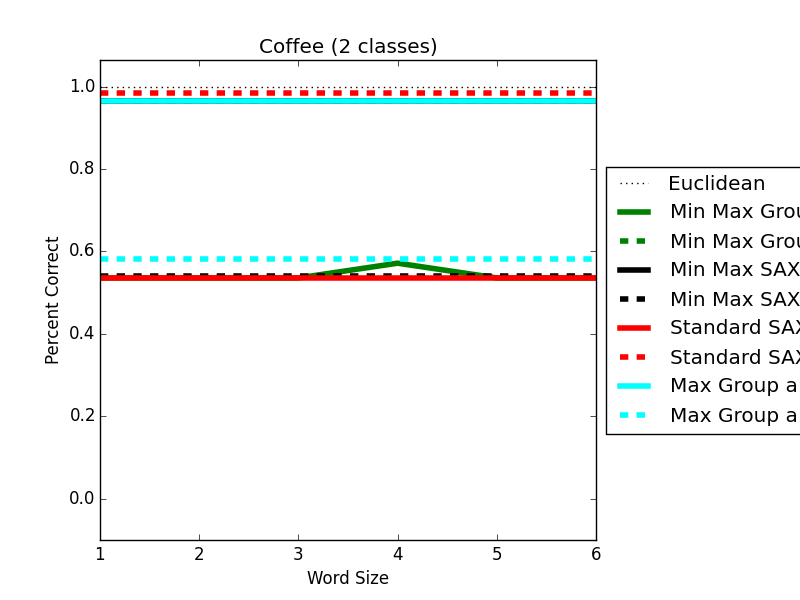
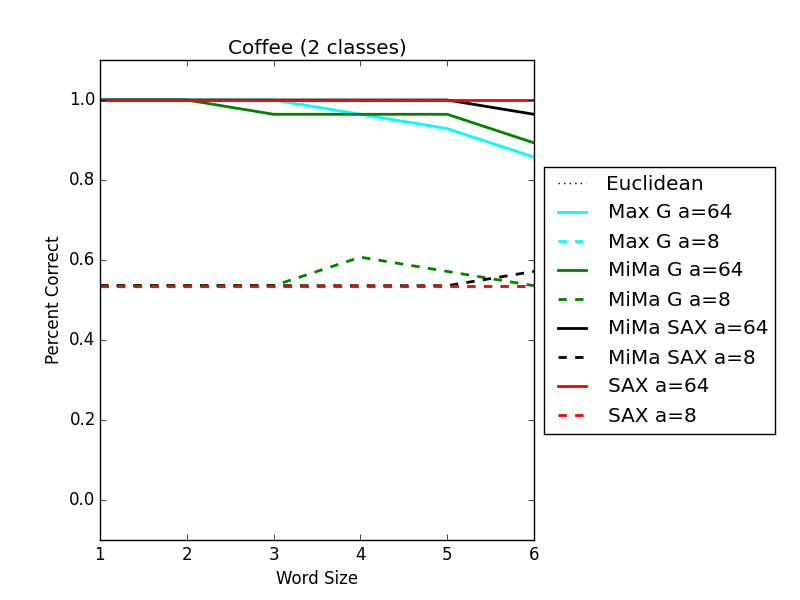
Fixed bugs with 4 at a time run

diff --git a/UCR_Tester.py b/UCR_Tester.py
@@ -191,8 +191,8 @@ class SAX:
 
 
 
-# UCR_DIRECTORY = '/Users/test/fall_2015/research/UCR_TS_Archive_2015/'
-UCR_DIRECTORY = r'C:\Users\Tom\Documents\fall_2015\research\UCR_TS_Archive_2015\\'
+UCR_DIRECTORY = '/Users/test/fall_2015/research/UCR_TS_Archive_2015/'
+# UCR_DIRECTORY = r'C:\Users\Tom\Documents\fall_2015\research\UCR_TS_Archive_2015\\'
 
 def loadUCRData(path):
     file = open(path, 'r')
@@ -259,27 +259,27 @@ def determineCorrect(trainData, trainLabels, testData, testLabels, classifyMetho
 def shiftSax(saxArray, amt):
     return np.right_shift(saxArray, amt)
 
-testFiles = ['ChlorineConcentration']
 testFiles = ['Beef', 'OliveOil', 'Coffee']
 testFiles += ['Earthquakes',]
 testFiles += ['SmallKitchenAppliances', 'LargeKitchenAppliances', 'TwoLeadECG', 'ECGFiveDays']#, 'FordA', 'FordB', 'ElectricDevices', 'ECG5000']
 testFiles += ['ItalyPowerDemand', 'Plane', 'Car']
 testFiles += ['ECG200']
 testFiles += ['Computers', ]
+testFiles += ['ChlorineConcentration']
 
 if len(sys.argv) > 1:
     print("Running on UCR dataset", sys.argv[1])
     testFiles = [sys.argv[1]]
 
 
-def convert_train_data(sax_instance, data, test_type):
+def convert_train_data(sax_instance, dataset, test_type):
     test_dictionary = {
-        "Standard SAX": sax_instance.to_standard_sax,
-        "Max Group": sax_instance.to_group_sax,
-        "Min Max Group": sax_instance.to_min_max_group_sax,
-        "Min Max SAX": sax_instance.to_min_max_sax,
+        "SAX": sax_instance.to_standard_sax,
+        "Max G": sax_instance.to_group_sax,
+        "MiMa G": sax_instance.to_min_max_group_sax,
+        "MiMa SAX": sax_instance.to_min_max_sax,
     }
-    return [test_dictionary[test_type](data) for data in trainingData]
+    return [test_dictionary[test_type](dat_piece) for dat_piece in dataset]
 
 for testDataSet in testFiles:
     trainingData, trainingLabels = loadUCRData(UCR_DIRECTORY + testDataSet + "/" + testDataSet + "_TRAIN")
@@ -292,10 +292,10 @@ for testDataSet in testFiles:
     euclideanCorrect = determineCorrect(*data, classifyMethod="Euclidean")
 
     tests = {
-        "Standard SAX": ("red", {}),
-        "Max Group": ('cyan', {}),
-        "Min Max Group": ('green', {}),
-        "Min Max SAX": ('black', {})
+        "SAX": ("red", {}),
+        "Max G": ('cyan', {}),
+        "MiMa G": ('green', {}),
+        "MiMa SAX": ('black', {})
     }
 
     wordSizes = [1, 2, 3, 4, 5, 6]
@@ -331,10 +331,11 @@ for testDataSet in testFiles:
     max_value = 0
     min_value = 0
     for k, test in enumerate(tests.keys()):
-        for i, key in enumerate(tests[test][1].keys()):
+        for i, key in enumerate(sorted(tests[test][1].keys())):
+            # print(i, test,key)
             max_value = max(max_value, max(tests[test][1][key]))
             min_value = min(min_value, max(tests[test][1][key]))
-            ax.plot(wordSizes, tests[test][1][key] + .005 * i * (k**2), color=tests[test][0], ls=styles[i], lw=4, label=key)
+            ax.plot(wordSizes, tests[test][1][key], color=tests[test][0], ls=styles[i], lw=2, label=key)
 
     plt.ylim([min_value - .1, max_value + .1])
     plt.title(testDataSet + " (%d classes)" % len(set(trainingLabels.flat)))
@@ -343,7 +344,7 @@ for testDataSet in testFiles:
 
     # Shrink current axis by 20%
     box = ax.get_position()
-    ax.set_position([box.x0, box.y0, box.width * 0.8, box.height])
+    ax.set_position([box.x0, box.y0, box.width * 0.7, box.height])
 
     # Put a legend to the right of the current axis
     ax.legend(loc='center left', bbox_to_anchor=(1, 0.5))
